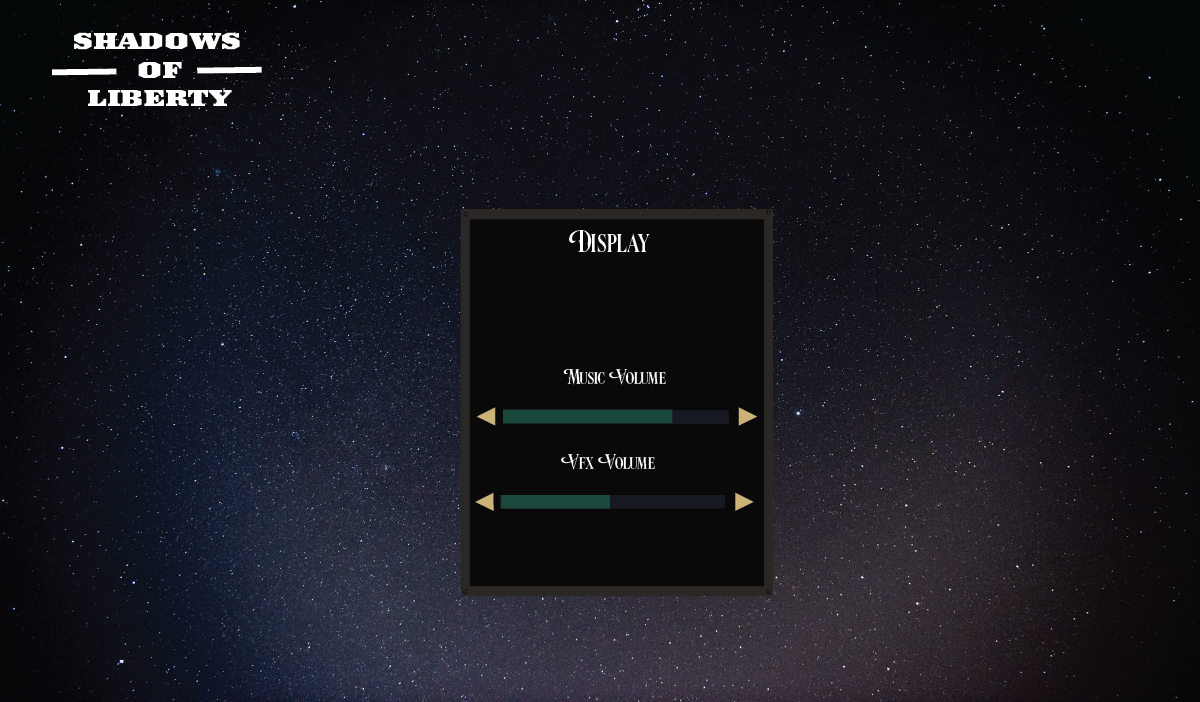
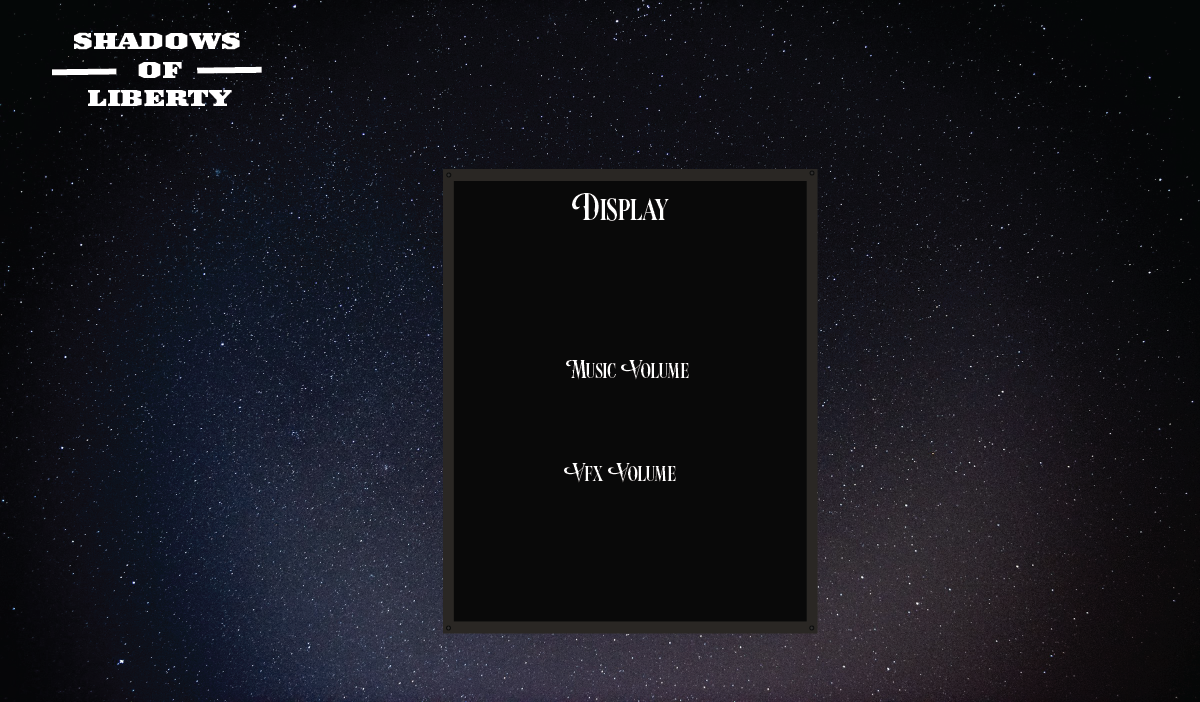
Add soundButtons

Changed region(s): [[0.37, 0.2393, 0.6783, 0.9274]]

diff --git a/src/bouton.c b/src/bouton.c
@@ -5,7 +5,7 @@
 #include "bouton.h"
 
 #define MENU_BUTTONS_COUNT 4
-#define SETTING_BUTTONS_COUNT 3
+#define SETTING_BUTTONS_COUNT 5
 
 int point_in_rect(int x, int y, SDL_Rect rect) {
     return (x >= rect.x && x < rect.x + rect.w && y >= rect.y && y < rect.y + rect.h);
@@ -64,19 +64,35 @@ int InitSettingsButtons(button b[]){
     b[2].button_images[0] = IMG_Load("../assets/returnButton.png");
     b[2].button_images[1] = IMG_Load("../assets/returnHoveredButton.png");
     b[2].actif = 0;
-
+    
+    //INIT SOUNDDOWN BUTTONS
+    b[3].button_images[0] = IMG_Load("../assets/sound/soundDownButton.png");
+    b[3].button_images[1] = IMG_Load("../assets/sound/soundDownButton.png");
+    b[3].actif=0;
+    //INIT SOUNDUP BUTTONS
+    b[4].button_images[0] = IMG_Load("../assets/sound/soundUpButton.png");
+    b[4].button_images[1] = IMG_Load("../assets/sound/soundUpButton.png");
+    b[4].actif=0;
+    
     if(b[0].button_images[0] == NULL || b[0].button_images[1] == NULL ||
        b[1].button_images[0] == NULL || b[1].button_images[1] == NULL ||
-       b[2].button_images[0] == NULL || b[2].button_images[1] == NULL) {
+       b[2].button_images[0] == NULL || b[2].button_images[1] == NULL ||
+       b[3].button_images[0] == NULL || b[4].button_images[0] == NULL) {
         printf("ERROR LOADING BUTTON IMAGES: %s\n", IMG_GetError());
         return 4;
     }
-
+    
+    //DISPLAY BUTTONS RECT
     for(int i = 0; i < 2; i++) {
-        b[i].button_rect = (SDL_Rect){475 , 230 + i * 80, b[i].button_images[0]->w, b[i].button_images[0]->h};
+        b[i].button_rect = (SDL_Rect){490 , 230 + i * 80, b[i].button_images[0]->w, b[i].button_images[0]->h};
     }
-
-    b[2].button_rect = (SDL_Rect){475 , 530, b[2].button_images[0]->w, b[2].button_images[0]->h};
+    
+    //RETURN BUTTON RECT
+    b[2].button_rect = (SDL_Rect){490 , 530, b[2].button_images[0]->w, b[2].button_images[0]->h};
+    
+    //DISPLAY SOUND BUTTON RECT
+    b[3].button_rect = (SDL_Rect){480 , 230 + 170, b[3].button_images[0]->w, b[3].button_images[0]->h};
+    b[4].button_rect = (SDL_Rect){775 , 230 + 170, b[4].button_images[0]->w, b[4].button_images[0]->h};
 
     return 0;
 }
@@ -84,9 +100,9 @@ int InitSettingsButtons(button b[]){
 void AfficherBouton(button b[], SDL_Surface *ecran, int niveau) {
     int buttonsCount;
     if(niveau == 0){
-    	buttonsCount = MENU_BUTTONS_COUNT;
-    }else if (niveau == 1){
-    	buttonsCount = SETTING_BUTTONS_COUNT;
+        buttonsCount = MENU_BUTTONS_COUNT;
+    } else if (niveau == 1){
+        buttonsCount = SETTING_BUTTONS_COUNT;
     }
     for(int i = 0; i < buttonsCount; i++) {
         SDL_Surface *buttonImage = b[i].button_images[b[i].actif];
@@ -94,20 +110,27 @@ void AfficherBouton(button b[], SDL_Surface *ecran, int niveau) {
     }
 }
 
+
 void AfficherBoutonActif(button b[], SDL_Surface *ecran) {
+
     for(int i = 0; i < 4; i++) {
+
         if (b[i].actif) {
+
             SDL_Surface *buttonImage = b[i].button_images[b[i].actif];
+
             SDL_BlitSurface(buttonImage, NULL, ecran, &b[i].button_rect);
+
         }
+
     }
 }
 
-
 void FreeBouton(button b[], int nb) {
-    for(int i = 0; i < 4; i++) {
+    for(int i = 0; i < nb; i++) {
         SDL_FreeSurface(b[i].button_images[0]);
         SDL_FreeSurface(b[i].button_images[1]);
     }
 }
+
 

diff --git a/src/main.c b/src/main.c
@@ -9,7 +9,7 @@
 #define SCREEN_HEIGHT 700
 #define SCREEN_WIDTH 1200
 #define MENU_BUTTONS_COUNT 4
-#define SETTING_BUTTONS_COUNT 3
+#define SETTING_BUTTONS_COUNT 5
 
 int main(int argc, char** argv) {
     SDL_Surface *ecran;
